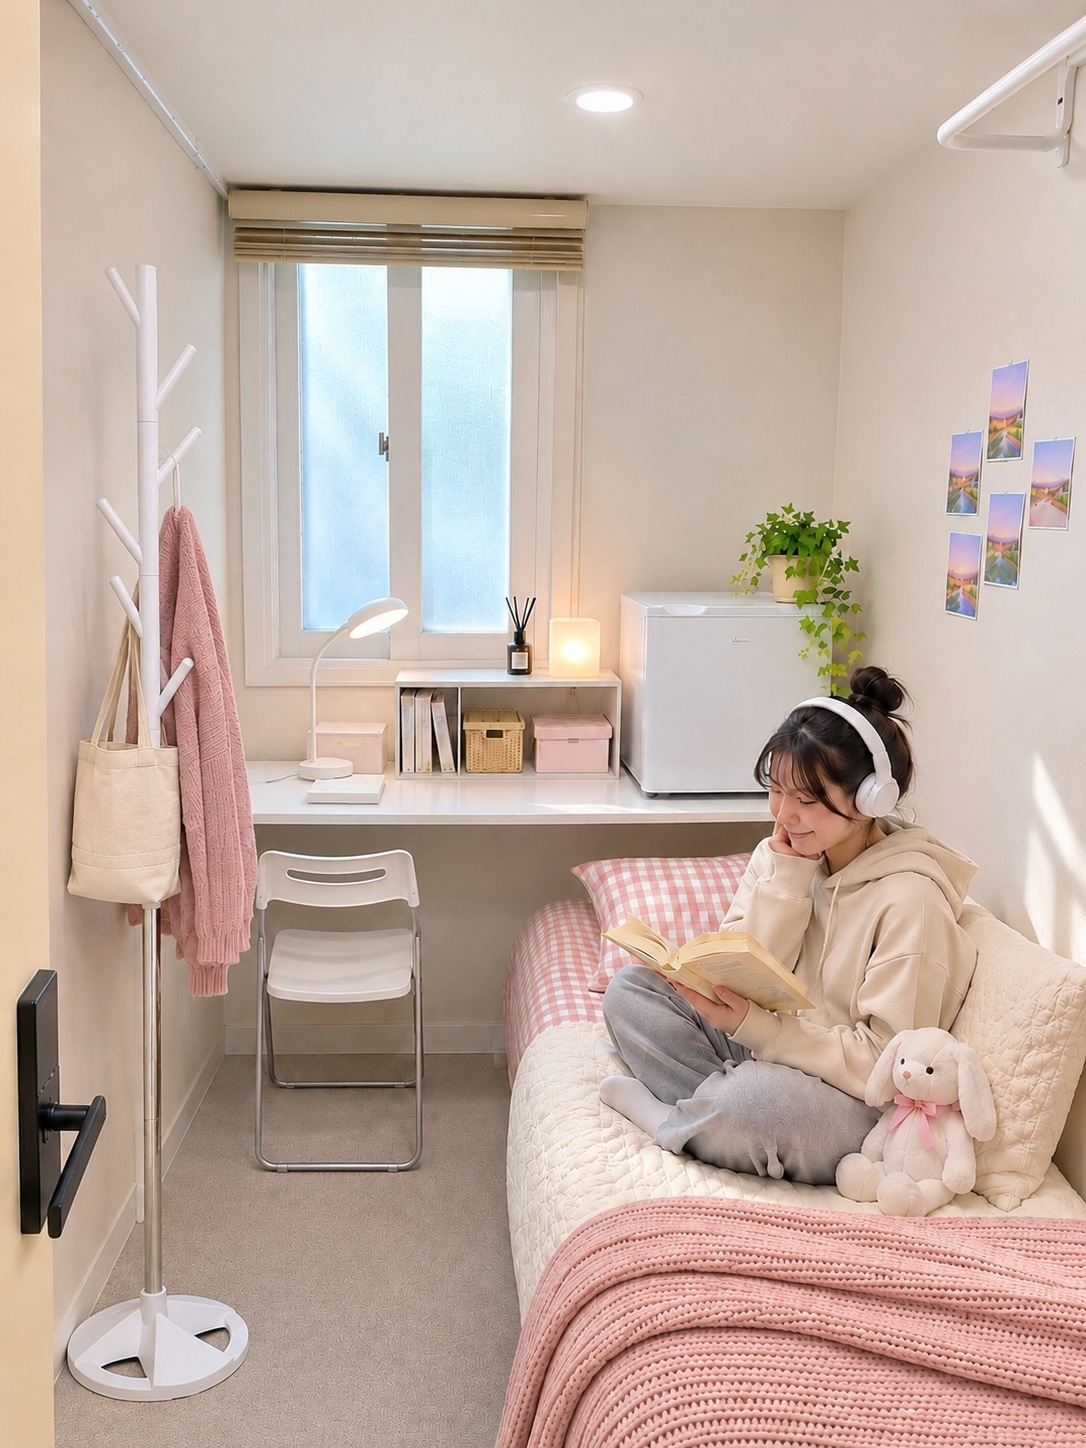
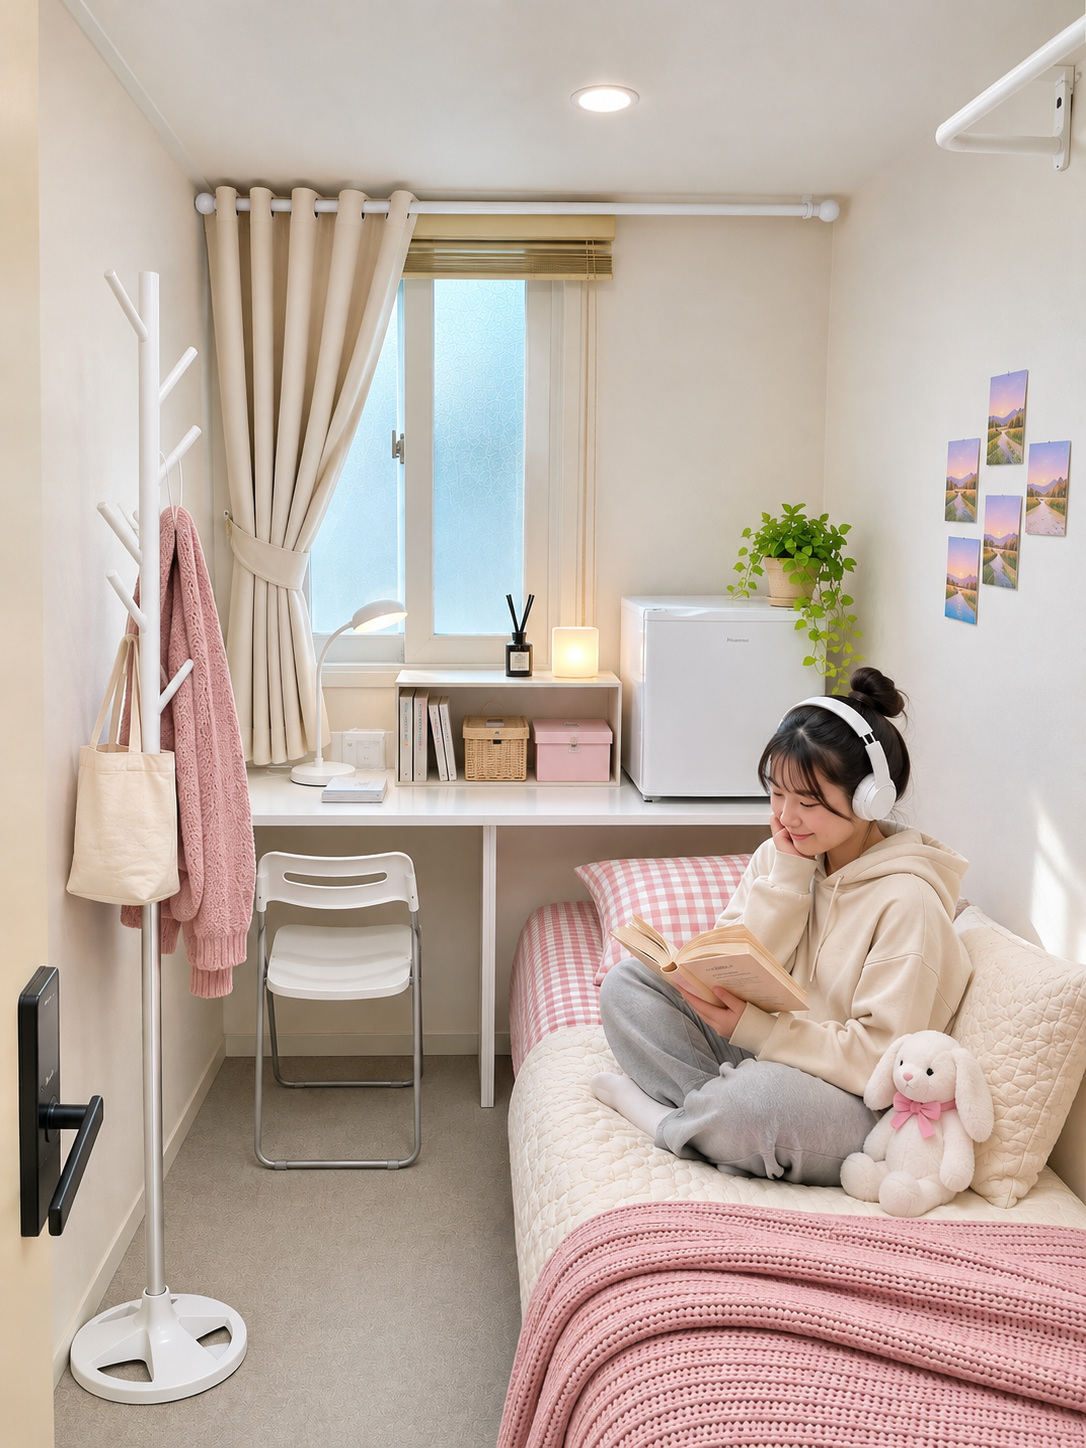
Add files via upload

diff --git a/rooms.html b/rooms.html
@@ -159,7 +159,7 @@
     <button type="button" onclick="selectDeluxePhoto(1,this)" aria-label="디럭스룸 다른 구조 사진 보기" aria-pressed="false"><img src="room-deluxe-view2.jpg" alt="다른 창문 구조 객실" loading="lazy"/></button>
     <button type="button" onclick="selectDeluxePhoto(2,this)" aria-label="디럭스룸 세 번째 사진 보기" aria-pressed="false"><img src="room-deluxe-view3.jpg" alt="또 다른 창문 구조 객실" loading="lazy"/></button>
   </div>
-  <p class="deluxe-gallery-note">※ 디럭스룸은 호실에 따라 창문 크기와 내부 구조가 조금씩 다릅니다. 사진을 선택해 비교해 보세요.</p>
+  <p class="deluxe-gallery-note">※ 디럭스룸은 호실에 따라 창문 크기와 내부 구조가 조금씩 다릅니다. 일부 객실에는 겨울철 단열·보온을 위해 기존 블라인드와 함께 방한 커튼이 추가로 설치되어 있습니다. 사진을 선택해 비교해 보세요.</p>
   <p class="deluxe-gallery-note deluxe-hanger-note">※ 사진에 보이는 이동식 스탠드 행거는 일부 객실에만 설치되어 있으며, 요청 시 빼드릴 수 있습니다.</p>
 </div>
 <div class="room-detail-body">
